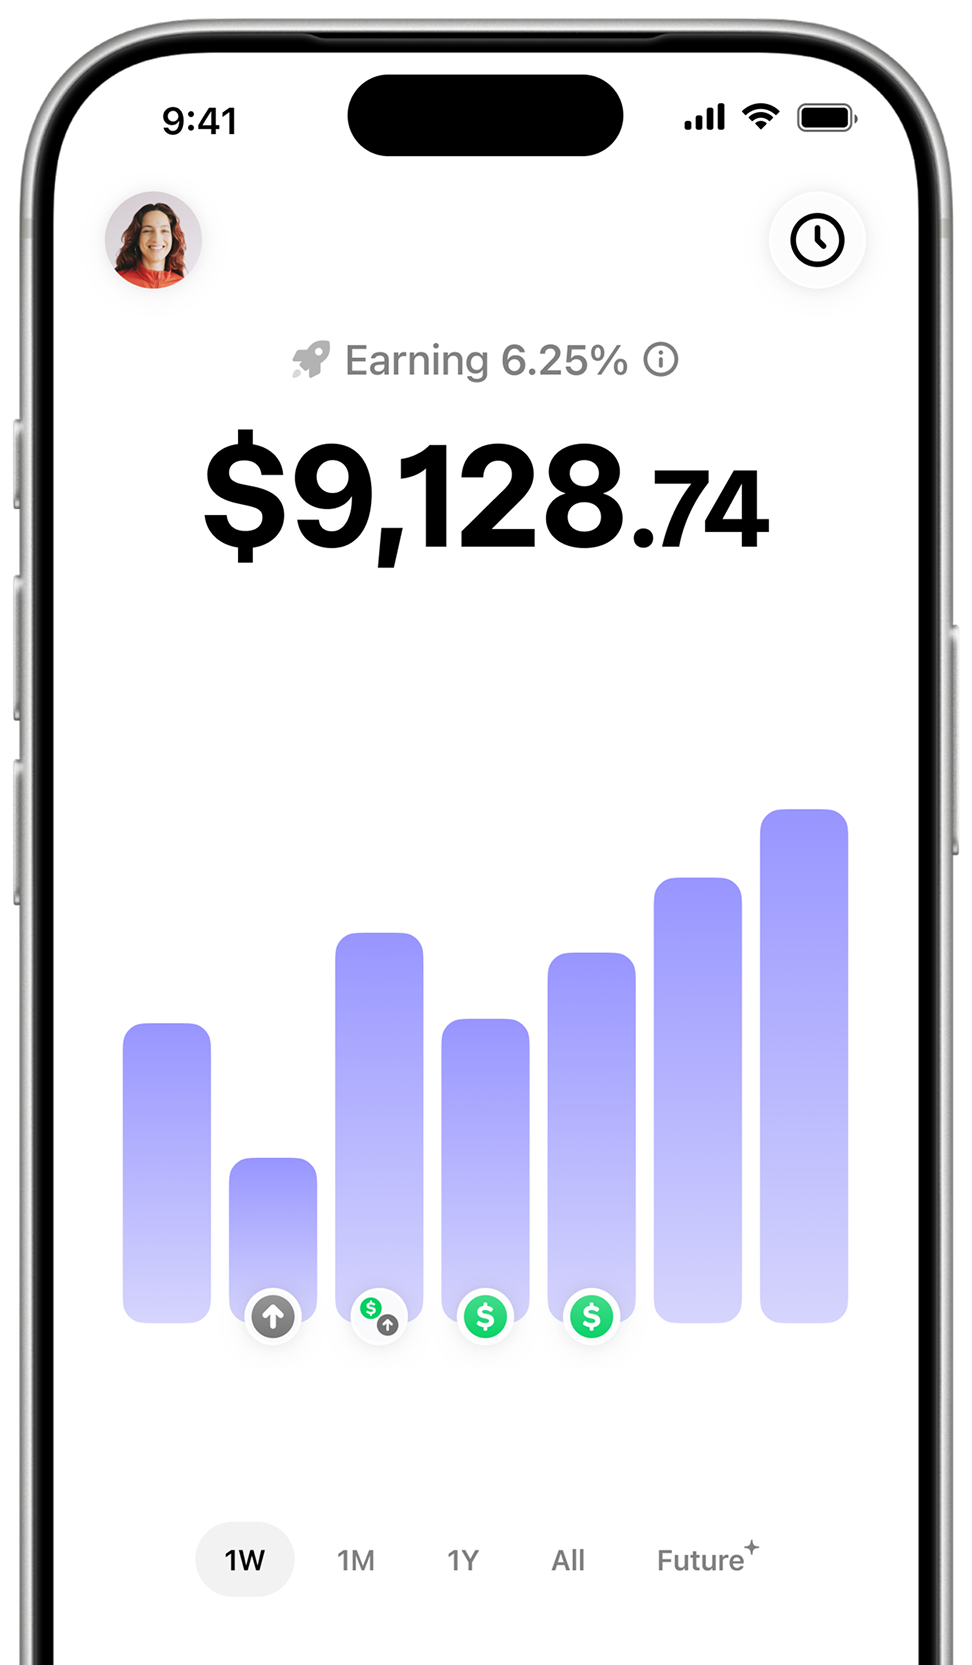
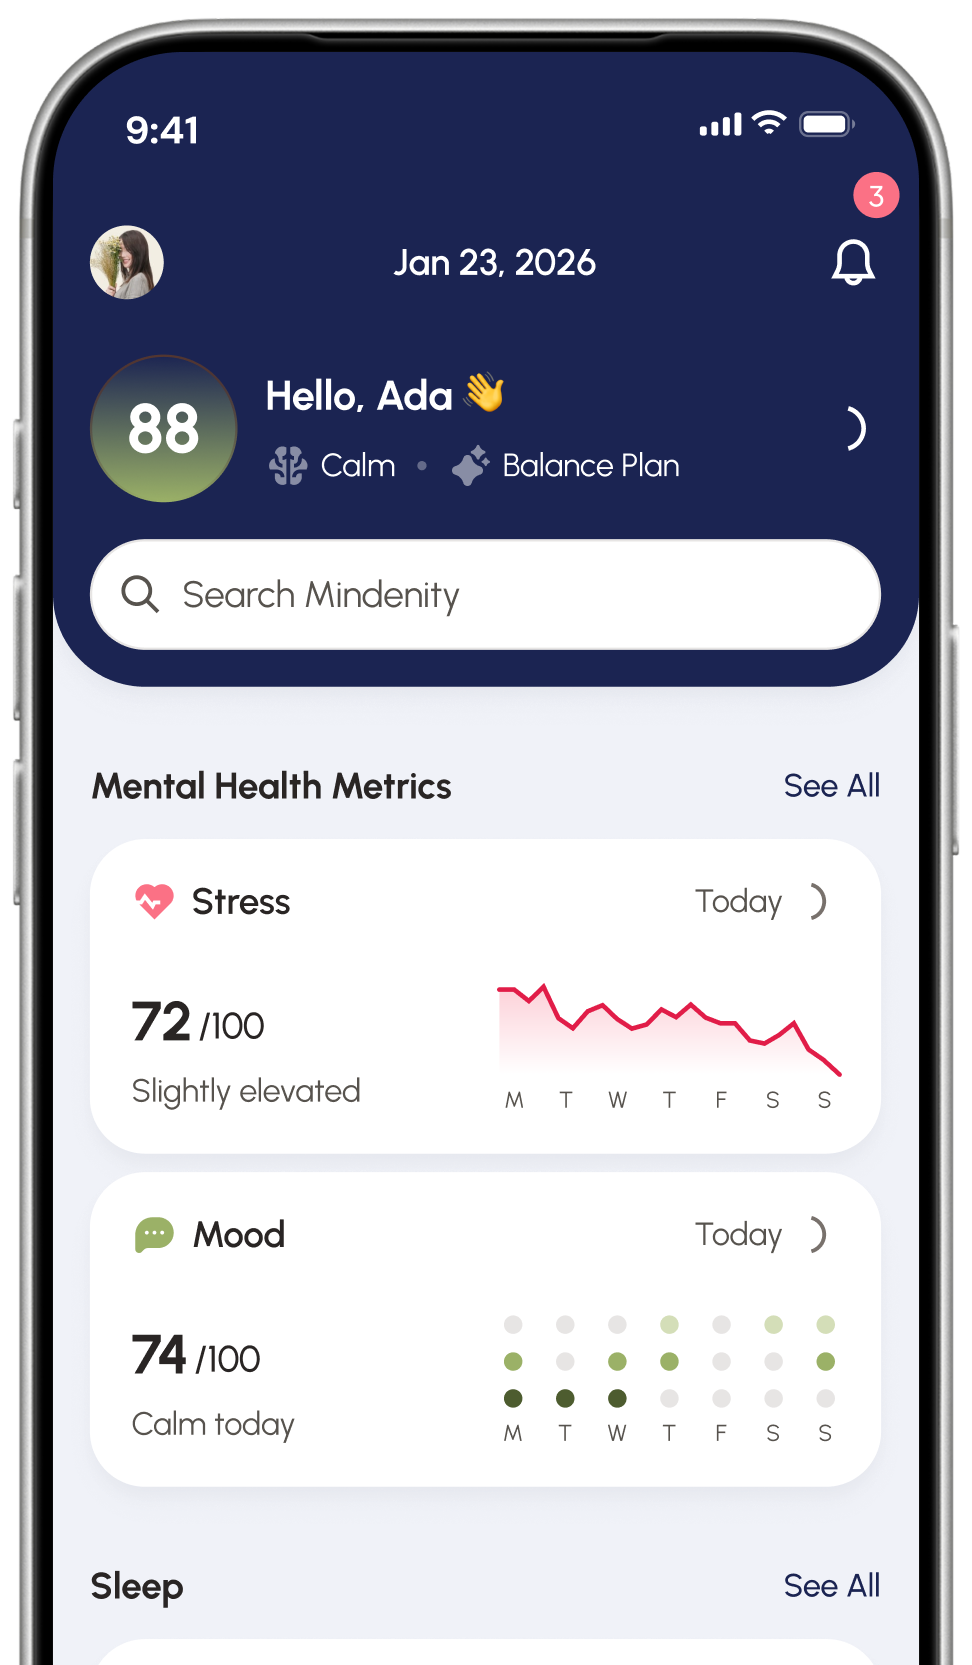
Update centre and right hero mockups, add AGENTS.md
Completes the phone mockup swap started in 2b00de2 - all three are now
972px wide as a matched set.

Adds AGENTS.md (Codex project guidance) and gitignores v8-compile-cache-*,
a local Node artifact that was showing up in every git status.

Note: hero-3.png is 1.8MB, a fifth of the whole built site. PNG-level
optimisation gains nothing (95%); WebP q90 would take it to 172KB.
Left as PNG for now so git holds the original artwork.

diff --git a/AGENTS.md b/AGENTS.md
@@ -1,0 +1,91 @@
+# Mindenity-2 — project guidance for Codex
+
+## Design system
+
+This project consumes the **Mindenity-DS** Figma file (`fileKey: qU7OupeoYyrtlNMEKi7ao5`) exclusively. A full catalog of the DS lives under [design-system/](design-system/). Read [design-system/README.md](design-system/README.md) at the start of any UI/Figma task.
+
+Key facts:
+- **Bridge:** Both `paperclip-figma-bridge` and `figma-console` are supported. Use whichever is currently available and specified — `figma-console` MCP tools are registered with a `mcp_figma_console_` prefix. Prefer the bridge the agent already has connected.
+- **Theme model:** light + dark are separate Figma pages today (NOT variable modes — Phase 2 set up the infrastructure but pages aren't flipped). Pick the matching page. Phase 2.5 will collapse this when template-page screen backgrounds are migrated to semantic surfaces.
+- **Tokens:** 36 numeric variables (radius, spacing, size, icon-size) + 144 `Palette` colors (renamed from `Colors` in Phase 2A) + 32 `Semantic` tokens with Light/Dark modes (31 from Phase 2 + `surface/base` from Phase 2.5 Step 1, both complete 2026-05-12). New components should bind to `Semantic` tokens (`surface/*`, `text/*`, `border/*`, `interactive/*`, `state/*`); `Palette` is implementation detail for decorative tints + Semantic aliases. Dark mode infrastructure exists but no page is flipped yet — see Phase 2 + Phase 2.5 Step 1 retrospectives for status.
+- **Components:** 183 across 24 categories — see [design-system/components.md](design-system/components.md).
+- **Templates:** every screen request should start by copying the closest frame from a [template page](design-system/templates.md), not from a blank artboard.
+
+## Workflow for "build me a screen" prompts
+
+1. Read [design-system/templates.md](design-system/templates.md) → pick the closest section (e.g. Mood Tracker, Authentication, Settings).
+2. Pick light or dark page based on the request.
+3. Drill into the section's screen grid, capture the section overview screenshot, choose the closest screen frame.
+4. Duplicate the frame into a working area, swap content via component instances and text edits.
+5. Verify after every mutation with `figma_capture_screenshot`. Final overview with `figma_take_screenshot`.
+
+## When the DS catalog might be stale
+
+NodeIds in the catalog were captured during the initial scan. If a `figma_execute` call referencing a cached id fails with "node not found", re-resolve by walking the page tree or via `figma_search_components`. The category structure and counts are stable.
+
+## When the DS doesn't have what's needed
+
+If a screen requires a pattern that doesn't exist in the catalog, **stop and ask** before authoring a new component. The DS owner may want it added properly first rather than as a one-off.
+
+# context-mode — MANDATORY routing rules
+
+You have context-mode MCP tools available. These rules are NOT optional — they protect your context window from flooding. A single unrouted command can dump 56 KB into context and waste the entire session.
+
+## BLOCKED commands — do NOT attempt these
+
+### curl / wget — BLOCKED
+Any Bash command containing `curl` or `wget` is intercepted and replaced with an error message. Do NOT retry.
+Instead use:
+- `ctx_fetch_and_index(url, source)` to fetch and index web pages
+- `ctx_execute(language: "javascript", code: "const r = await fetch(...)")` to run HTTP calls in sandbox
+
+### Inline HTTP — BLOCKED
+Any Bash command containing `fetch('http`, `requests.get(`, `requests.post(`, `http.get(`, or `http.request(` is intercepted and replaced with an error message. Do NOT retry with Bash.
+Instead use:
+- `ctx_execute(language, code)` to run HTTP calls in sandbox — only stdout enters context
+
+### WebFetch — BLOCKED
+WebFetch calls are denied entirely. The URL is extracted and you are told to use `ctx_fetch_and_index` instead.
+Instead use:
+- `ctx_fetch_and_index(url, source)` then `ctx_search(queries)` to query the indexed content
+
+## REDIRECTED tools — use sandbox equivalents
+
+### Bash (>20 lines output)
+Bash is ONLY for: `git`, `mkdir`, `rm`, `mv`, `cd`, `ls`, `npm install`, `pip install`, and other short-output commands.
+For everything else, use:
+- `ctx_batch_execute(commands, queries)` — run multiple commands + search in ONE call
+- `ctx_execute(language: "shell", code: "...")` — run in sandbox, only stdout enters context
+
+### Read (for analysis)
+If you are reading a file to **Edit** it → Read is correct (Edit needs content in context).
+If you are reading to **analyze, explore, or summarize** → use `ctx_execute_file(path, language, code)` instead. Only your printed summary enters context. The raw file content stays in the sandbox.
+
+### Grep (large results)
+Grep results can flood context. Use `ctx_execute(language: "shell", code: "grep ...")` to run searches in sandbox. Only your printed summary enters context.
+
+## Tool selection hierarchy
+
+1. **GATHER**: `ctx_batch_execute(commands, queries)` — Primary tool. Runs all commands, auto-indexes output, returns search results. ONE call replaces 30+ individual calls.
+2. **FOLLOW-UP**: `ctx_search(queries: ["q1", "q2", ...])` — Query indexed content. Pass ALL questions as array in ONE call.
+3. **PROCESSING**: `ctx_execute(language, code)` | `ctx_execute_file(path, language, code)` — Sandbox execution. Only stdout enters context.
+4. **WEB**: `ctx_fetch_and_index(url, source)` then `ctx_search(queries)` — Fetch, chunk, index, query. Raw HTML never enters context.
+5. **INDEX**: `ctx_index(content, source)` — Store content in FTS5 knowledge base for later search.
+
+## Subagent routing
+
+When spawning subagents (Agent/Task tool), the routing block is automatically injected into their prompt. Bash-type subagents are upgraded to general-purpose so they have access to MCP tools. You do NOT need to manually instruct subagents about context-mode.
+
+## Output constraints
+
+- Keep responses under 500 words.
+- Write artifacts (code, configs, PRDs) to FILES — never return them as inline text. Return only: file path + 1-line description.
+- When indexing content, use descriptive source labels so others can `ctx_search(source: "label")` later.
+
+## ctx commands
+
+| Command | Action |
+|---------|--------|
+| `ctx stats` | Call the `ctx_stats` MCP tool and display the full output verbatim |
+| `ctx doctor` | Call the `ctx_doctor` MCP tool, run the returned shell command, display as checklist |
+| `ctx upgrade` | Call the `ctx_upgrade` MCP tool, run the returned shell command, display as checklist |
